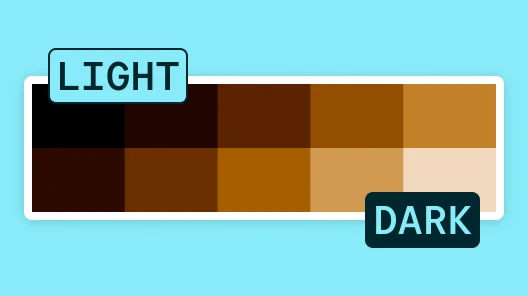
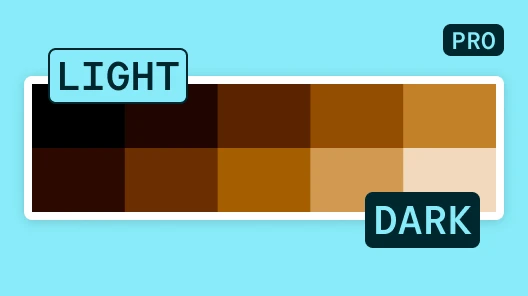
Feat: Update hightlight and pro messages

Changed region(s): [[0.8182, 0.0608, 0.9697, 0.2128]]

diff --git a/src/content/releaseNotes.ts b/src/content/releaseNotes.ts
@@ -17,8 +17,8 @@ const releaseNotes: Array<ReleaseNote> = [
     ],
     image: [rnv241, rnv242],
     content: [
-      'UI Color Palette allows you to create free accessible color palettes, but the Pro plan offers more features such as color themes, additional export options, and a color sheet that turns your palette into a color system. Ready to try it out?',
-      'In the Pro plan, color themes can be managed within the same palette, allowing you to create as many variations of lightness scales as needed to build your color system. This feature can be helpful for managing both light and dark mode themes.',
+      'UI Color Palette allows you to create freely accessible color palettes. However, the Pro plan offers additional features such as color themes, more export options, and the ability to create variables that can transform your color palette into a color system. Are you ready to try it out?',
+      'With the Pro plan, you can manage color themes within the same palette, enabling you to create as many variations of lightness scales as needed to build your color system. This feature is useful for managing both light and dark mode themes.',
     ],
     numberOfNotes: 2,
     learnMore: ['https://uicp.link/whats-new', 'https://uicp.link/whats-new'],

diff --git a/src/content/locals.ts b/src/content/locals.ts
@@ -172,8 +172,8 @@ export const locals: { [key: string]: any } = {
     proPlan: {
       welcome: {
         title: 'Welcome to UI Color Palette Pro!',
-        message: 'You have successfully upgraded to the Pro plan, unlocking a range of tools to enhance your color system and its deployment options.',
-        cta: "Let's discover"
+        message: 'You have successfully upgraded to the Pro plan, unlocking a range of tools to transform your color palette into a color system.',
+        cta: "Let's enhance it"
       }
         
     },
